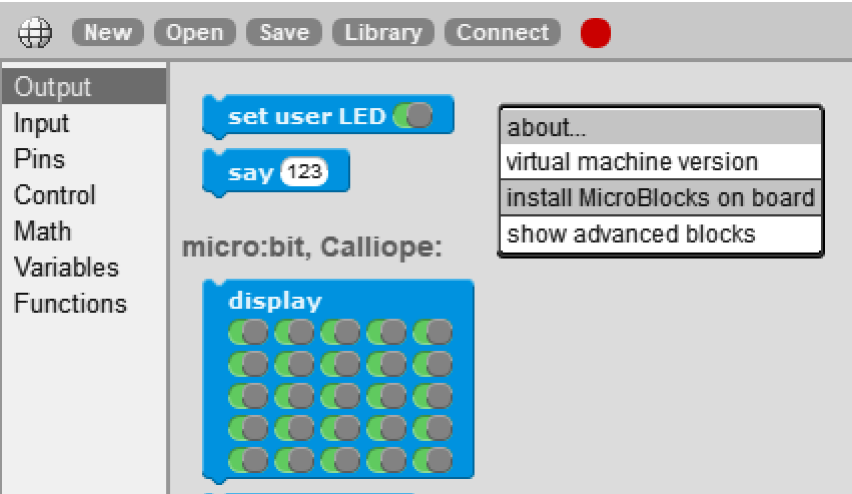
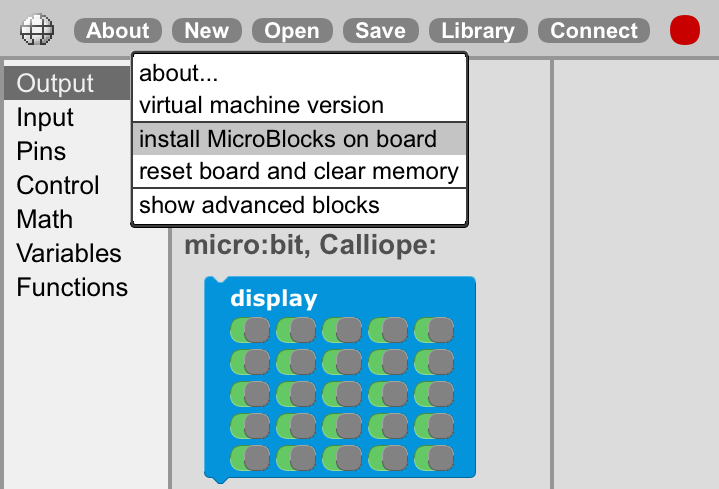
Tweaks to setup instructions

diff --git a/docs/download.html b/docs/download.html
@@ -96,8 +96,18 @@ Other versions are <a href="https://github.com/bromagosa/microblocks-site/releas
 <p><span><a href="http://https://docs.mbed.com/docs/mbed-os-handbook/en/latest/getting_started/what_need/%23windows-serial-driver">Serial drivers for BBC micro:bit and Calliope mini (mbed)</a></span></p>
 <p><span><a href="http://https//learn.adafruit.com/adafruit-circuit-playground-express/adafruit2-windows-driver-installation">Serial drivers for Circuit Playground Express (AdaFruit boards)</a></span></p>
 
+<h2>Open with menu the first time (Macintosh only)</h2>
+
+<p><span>On Mac OS X, you have to use the open menu the first time you run MicroBlocks.</span></p>
+<p><span>Right-click on MicroBlocks.app and select "Open" from the menu:</span></p>
+<p><span><img src="OpenMenu.png" width="500" alt="OpenMenu.png"></span></p>
+<p><span>Then click the "Open" button in the confirmation dialog:<p><span>
+<p><span><img src="OpenConfirmDialog.png" width="500" alt="OpenConfirmDialog.png"></span></p>
+<p><span><b>Note:</b> You will need administrator access to do this.</span></p>
+<p><span><b>Note:</b> Most browsers are set to automatically unzip downloaded files. If your browser is not, you'll see a file like "MicroBlocks.zip" in your downloads folder. Just double-click on that file to unzip it, then follow the instructions above to open the unzipped application.</span></p>
+
 <h2>Add yourself to the serial port group (Linux only)</h2>
-<p><span>On many Linux systems, users don’t have access to the USB serial port by default, so MicroBlocks will get an error when it tries to open the serial port to connect to the board.  A quick solution to that is to launch MicroBlocks from the command line using “sudo”:</span></p>
+<p><span>On most Linux systems, users don’t have access to the USB serial port by default, so MicroBlocks will get an error when it tries to open the serial port to connect to the board.  One solution to that is to launch MicroBlocks from the command line using “sudo”:</span></p>
 <pre>
 sudo ublocks-linux64bit
 </pre>
@@ -121,7 +131,7 @@ sudo usermod -G dialout -a YOUR_USER_NAME
 
 <h2>Install MicroBlocks on your board (first time only)</h2>
 <p><span><strong>Note:</strong> If you have a Circuit Playground Express you need to click the small "boot" button in the middle of the board twice quickly to prepare the board. The 10 NeoPixels around the edge of the board will turn green when the board is ready.</span></p>
-<p><span>Start MicroBlocks, then right-click on the connection indicator circle (red in this screenshot) and select <i>install MicroBlocks on board</i>:</span></p>
+<p><span>Start MicroBlocks, then click the "About" button and select <i>install MicroBlocks on board</i>:</span></p>
 <p><span><img src="InstallMenu.png" width="500" alt="InstallMenu.png"></span></p>
 <p><span>Select your board from the menu (there will only one entry in the menu unless you have several boards plugged in):</span></p>
 <p><span><img src="BoardSelectionMenu.png" width="120" alt="BoardSelectionMenu.png"></span></p>
